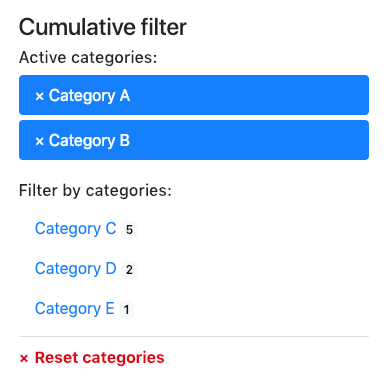
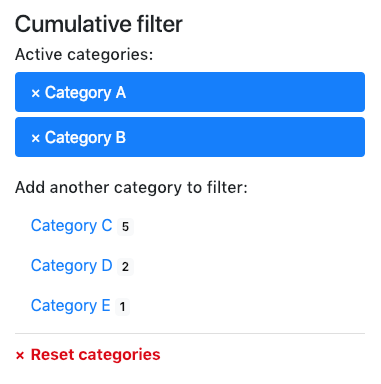
Display another label for inactive categories if there already are some active categories

diff --git a/src/Resources/contao/languages/en/default.php b/src/Resources/contao/languages/en/default.php
@@ -16,6 +16,7 @@ $GLOBALS['TL_LANG']['MSC']['resetCategories'] = ['All categories', 'Show news fr
 $GLOBALS['TL_LANG']['MSC']['resetCategoriesCumulative'] = ['Reset categories', 'Show news from all categories'];
 $GLOBALS['TL_LANG']['MSC']['activeCategories'] = 'Active categories:';
 $GLOBALS['TL_LANG']['MSC']['inactiveCategories'] = 'Filter by categories:';
+$GLOBALS['TL_LANG']['MSC']['inactiveCategoriesAdd'] = 'Add another category to filter:';
 
 /*
  * Content elements
